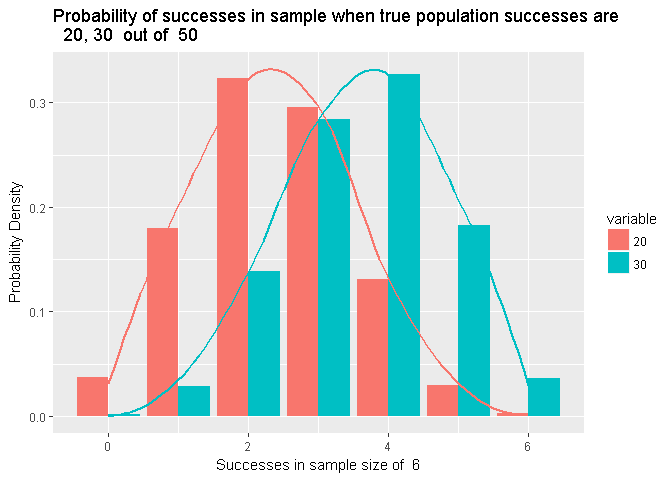
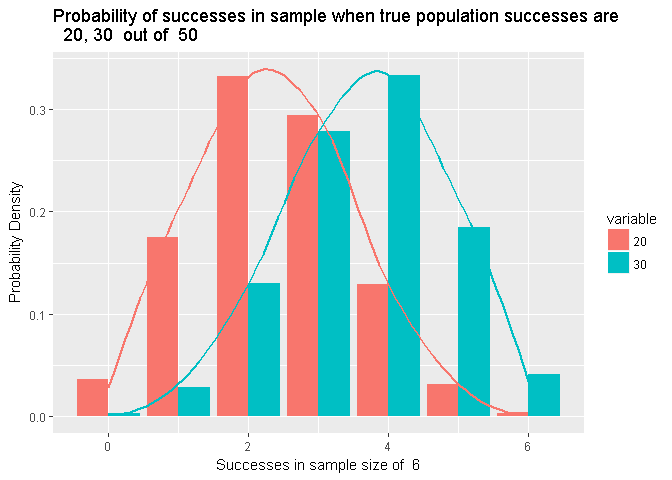
sample pdf plot

diff --git a/hypergeometric_MC_ntbk.md b/hypergeometric_MC_ntbk.md
@@ -83,37 +83,37 @@ print(aggregated_data)
 ```
 
     ##       0    1    2    3    4    5    6    7    8    9   10   11   12   13
-    ## 0 10000 8799 7753 6809 5715 5042 4437 3889 3408 2862 2414 2009 1782 1473
-    ## 1     0 1201 2130 2847 3627 3910 4107 4201 4191 4197 4118 3979 3797 3589
-    ## 2     0    0  117  335  616  935 1270 1636 1969 2319 2639 2863 3014 3200
-    ## 3     0    0    0    9   42  111  179  252  399  549  705  958 1148 1410
-    ## 4     0    0    0    0    0    2    6   22   32   69  117  177  249  299
-    ## 5     0    0    0    0    0    0    1    0    1    4    7   13    9   29
-    ## 6     0    0    0    0    0    0    0    0    0    0    0    1    1    0
+    ## 0 10000 8786 7708 6782 5899 5165 4423 3949 3334 2874 2395 2023 1767 1477
+    ## 1     0 1214 2184 2852 3444 3799 4102 4076 4332 4246 4162 3943 3727 3521
+    ## 2     0    0  108  362  629  948 1293 1673 1878 2228 2555 2913 3020 3261
+    ## 3     0    0    0    4   28   87  173  285  421  577  759  955 1255 1410
+    ## 4     0    0    0    0    0    1    8   17   33   70  122  153  209  304
+    ## 5     0    0    0    0    0    0    1    0    2    5    7   13   21   27
+    ## 6     0    0    0    0    0    0    0    0    0    0    0    0    1    0
     ##     14   15   16   17   18   19   20   21   22   23   24   25   26   27
-    ## 0 1276 1023  824  726  568  485  377  298  271  194  126  105   93   75
-    ## 1 3297 3021 2787 2594 2308 2046 1794 1582 1372 1141  948  884  683  587
-    ## 2 3321 3503 3450 3460 3443 3456 3234 3079 3006 2831 2519 2387 2200 1893
-    ## 3 1679 1889 2177 2303 2516 2712 2961 3030 3188 3259 3356 3279 3253 3246
-    ## 4  391  494  666  776  993 1067 1314 1597 1696 1959 2234 2400 2682 2825
-    ## 5   36   65   91  132  158  223  295  375  428  550  732  852  965 1217
-    ## 6    0    5    5    9   14   11   25   39   39   66   85   93  124  157
+    ## 0 1239 1012  855  719  583  471  358  316  235  201  142  119   84   53
+    ## 1 3324 3049 2828 2543 2295 1995 1750 1666 1358 1150 1059  851  656  531
+    ## 2 3364 3478 3505 3465 3465 3395 3324 3135 2996 2855 2597 2403 2167 1994
+    ## 3 1622 1857 2097 2346 2586 2812 2940 2969 3154 3156 3251 3317 3375 3249
+    ## 4  402  532  624  786  890 1106 1287 1479 1731 2007 2164 2367 2604 2788
+    ## 5   48   71   85  137  169  200  311  397  473  579  707  836  977 1170
+    ## 6    1    1    6    4   12   21   30   38   53   52   80  107  137  215
     ##     28   29   30   31   32   33   34   35   36   37   38   39   40   41
-    ## 0   54   38   20   19   19    8    3    3    2    2    0    0    0    0
-    ## 1  499  384  287  203  149  128   94   52   41   43   26   11    7    2
-    ## 2 1763 1545 1388 1113  941  761  611  527  422  303  213  170   89   58
-    ## 3 3134 3015 2844 2810 2513 2369 2126 1851 1600 1406 1221  934  743  556
-    ## 4 2966 3145 3268 3344 3495 3520 3456 3489 3371 3191 2978 2884 2592 2358
-    ## 5 1345 1585 1832 2065 2291 2512 2826 3088 3295 3604 3861 3951 4186 4175
-    ## 6  239  288  361  446  592  702  884  990 1269 1451 1701 2050 2383 2851
+    ## 0   44   35   28   10   10    9    8    2    0    0    0    0    0    0
+    ## 1  493  375  281  220  177  127   99   66   58   28   15   10    8    4
+    ## 2 1726 1544 1301 1193  880  767  647  489  386  305  237  163   83   58
+    ## 3 3096 3075 2792 2811 2616 2325 2055 1813 1588 1425 1181  928  726  551
+    ## 4 3001 3140 3337 3344 3491 3557 3545 3491 3482 3148 2993 2787 2598 2299
+    ## 5 1416 1544 1852 1939 2249 2557 2877 3092 3292 3580 3798 3982 4151 4218
+    ## 6  224  287  409  483  577  658  769 1047 1194 1514 1776 2130 2434 2870
     ##     42   43   44   45   46   47   48   49    50
     ## 0    0    0    0    0    0    0    0    0     0
-    ## 1    2    1    0    0    0    0    0    0     0
-    ## 2   36   26    7    4    1    0    0    0     0
-    ## 3  413  266  186   97   42   11    0    0     0
-    ## 4 1935 1549 1283  937  597  333   98    0     0
-    ## 5 4336 4244 4109 3873 3520 2917 2098 1199     0
-    ## 6 3278 3914 4415 5089 5840 6739 7804 8801 10000
+    ## 1    4    0    0    0    0    0    0    0     0
+    ## 2   42   20    9    3    0    0    0    0     0
+    ## 3  407  266  182  100   29   12    0    0     0
+    ## 4 2015 1591 1335  869  600  345  111    0     0
+    ## 5 4352 4305 4080 3826 3464 2942 2195 1154     0
+    ## 6 3180 3818 4394 5202 5907 6701 7694 8846 10000
 
 Let's create some plots to help visualize the data First we write a function to plot the the distribution of the observed successes in a sample over the true number of successes in the population.
 
@@ -166,7 +166,7 @@ draw_dist_plot <-function(successes, df, N){
 We first set the population successes that we want to look at. Here we choose 20 and 30.
 
 ``` r
-##  Plot entire sample distribution for x successes in N. Choose x (can choose more than one to compare)
+##  Plot entire sample distribution for successes in N.
 successes=c(20, 30)
 ```
 
@@ -197,7 +197,7 @@ right_tail_plot <- function(df, sample_successes, pop_successes){
 }
 ```
 
-We then call the function based on the parameters we want to see. Here we are looking at 4 successes in the sample size of 6 where we want to know the probability that the true number of successes in the population is greater than 25
+We then call the function based on the parameters we want to see. Here we are looking at 4 successes in the sample size of 6 where we want to know the probability that the true number of successes in the population is greater than 25. For a sample size or 6 with 4 successes, the probability that the true number of successes in the population of 50 is greater than 25 is 80.8%
 
 ``` r
 ##  parameters for plotting function
